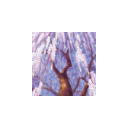
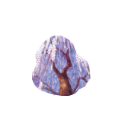
冰柱樱重做并翻新图片

Changed region(s): [[0.25, 0.25, 0.75, 0.75], [0.25, 0.625, 0.4688, 0.75]]

diff --git a/src/main/java/FrierenMod/patches/IcicleCherryBlossomPatch.java b/src/main/java/FrierenMod/patches/IcicleCherryBlossomPatch.java
@@ -1,41 +1,41 @@
-package FrierenMod.patches;
-
-import FrierenMod.cards.tempCards.Mana;
-import FrierenMod.relics.IcicleCherryBlossom;
-import com.evacipated.cardcrawl.modthespire.lib.SpirePatch;
-import com.evacipated.cardcrawl.modthespire.lib.SpirePostfixPatch;
-import com.megacrit.cardcrawl.cards.AbstractCard;
-import com.megacrit.cardcrawl.dungeons.AbstractDungeon;
-
-import java.util.ArrayList;
-
-public class IcicleCherryBlossomPatch {
-    @SpirePatch(clz = AbstractDungeon.class, method = "getColorlessRewardCards")
-    public static class PatchGetColorlessRewardCards {
-        @SpirePostfixPatch
-        public static ArrayList<AbstractCard> ChangeCards(ArrayList<AbstractCard> retVal2) {
-            if (AbstractDungeon.player.hasRelic(IcicleCherryBlossom.ID))
-                for (int i = 0; i < retVal2.size(); i++) {
-                    int rng = AbstractDungeon.cardRng.random(100);
-                    if (rng <= IcicleCherryBlossom.RATE) {
-                        retVal2.set(i, new Mana());
-                    }
-                }
-            return retVal2;
-        }
-    }
-    @SpirePatch(clz = AbstractDungeon.class, method = "getRewardCards")
-    public static class PatchGetRewardCards {
-        @SpirePostfixPatch
-        public static ArrayList<AbstractCard> ChangeCards(ArrayList<AbstractCard> retVal2) {
-            if (AbstractDungeon.player.hasRelic(IcicleCherryBlossom.ID))
-                for (int i = 0; i < retVal2.size(); i++) {
-                    int rng = AbstractDungeon.cardRng.random(100);
-                    if (rng <= IcicleCherryBlossom.RATE) {
-                        retVal2.set(i, new Mana());
-                    }
-                }
-            return retVal2;
-        }
-    }
-}
+//package FrierenMod.patches;
+//
+//import FrierenMod.cards.tempCards.Mana;
+//import FrierenMod.relics.IcicleCherryBlossom;
+//import com.evacipated.cardcrawl.modthespire.lib.SpirePatch;
+//import com.evacipated.cardcrawl.modthespire.lib.SpirePostfixPatch;
+//import com.megacrit.cardcrawl.cards.AbstractCard;
+//import com.megacrit.cardcrawl.dungeons.AbstractDungeon;
+//
+//import java.util.ArrayList;
+//
+//public class IcicleCherryBlossomPatch {
+//    @SpirePatch(clz = AbstractDungeon.class, method = "getColorlessRewardCards")
+//    public static class PatchGetColorlessRewardCards {
+//        @SpirePostfixPatch
+//        public static ArrayList<AbstractCard> ChangeCards(ArrayList<AbstractCard> retVal2) {
+//            if (AbstractDungeon.player.hasRelic(IcicleCherryBlossom.ID))
+//                for (int i = 0; i < retVal2.size(); i++) {
+//                    int rng = AbstractDungeon.cardRng.random(100);
+//                    if (rng <= IcicleCherryBlossom.RATE) {
+//                        retVal2.set(i, new Mana());
+//                    }
+//                }
+//            return retVal2;
+//        }
+//    }
+//    @SpirePatch(clz = AbstractDungeon.class, method = "getRewardCards")
+//    public static class PatchGetRewardCards {
+//        @SpirePostfixPatch
+//        public static ArrayList<AbstractCard> ChangeCards(ArrayList<AbstractCard> retVal2) {
+//            if (AbstractDungeon.player.hasRelic(IcicleCherryBlossom.ID))
+//                for (int i = 0; i < retVal2.size(); i++) {
+//                    int rng = AbstractDungeon.cardRng.random(100);
+//                    if (rng <= IcicleCherryBlossom.RATE) {
+//                        retVal2.set(i, new Mana());
+//                    }
+//                }
+//            return retVal2;
+//        }
+//    }
+//}

diff --git a/src/main/java/FrierenMod/relics/IcicleCherryBlossom.java b/src/main/java/FrierenMod/relics/IcicleCherryBlossom.java
@@ -1,48 +1,40 @@
 package FrierenMod.relics;
 
+import FrierenMod.actions.MakeManaInDrawPileAction;
+import FrierenMod.gameHelpers.CombatHelper;
 import FrierenMod.utils.ModInformation;
-import basemod.AutoAdd;
+import com.evacipated.cardcrawl.mod.stslib.relics.ClickableRelic;
 import com.megacrit.cardcrawl.actions.common.RelicAboveCreatureAction;
 import com.megacrit.cardcrawl.dungeons.AbstractDungeon;
-import com.megacrit.cardcrawl.monsters.AbstractMonster;
-import com.megacrit.cardcrawl.relics.AbstractRelic;
+import com.megacrit.cardcrawl.helpers.PowerTip;
 
-@AutoAdd.Ignore
-public class IcicleCherryBlossom extends AbstractBaseRelic {
+public class IcicleCherryBlossom extends AbstractBaseRelic implements ClickableRelic {
     public static final String ID = ModInformation.makeID(IcicleCherryBlossom.class.getSimpleName());
-    public static final int RATE = 60;
 
     public IcicleCherryBlossom() {
-        super(ID, RelicTier.BOSS);
+        super(ID, RelicTier.UNCOMMON);
+        this.counter = 10;
+        this.description = String.format(DESCRIPTIONS[0], this.counter);
+        this.tips.clear();
+        this.tips.add(new PowerTip(this.name, this.description));
     }
 
     public String getUpdatedDescription() {
-        return this.DESCRIPTIONS[0];
+        return String.format(this.DESCRIPTIONS[0], this.counter);
     }
 
-    public AbstractRelic makeCopy() {
-        return new IcicleCherryBlossom();
-    }
-
-    public boolean isNormal() {
-        for (AbstractMonster m : (AbstractDungeon.getMonsters()).monsters) {
-            if (m.type == AbstractMonster.EnemyType.BOSS)
-                return true;
+    @Override
+    public void onRightClick() {
+        if (!usedUp && CombatHelper.isInCombat()) {
+            --this.counter;
+            this.description = String.format(DESCRIPTIONS[0], this.counter);
+            this.tips.clear();
+            this.tips.add(new PowerTip(this.name, this.description));
+            this.initializeTips();
+            this.addToBot(new RelicAboveCreatureAction(AbstractDungeon.player, this));
+            this.addToBot(new MakeManaInDrawPileAction(1));
+            if (counter <= 0)
+                usedUp();
         }
-        return false;
     }
-
-    public void atBattleStart() {
-        flash();
-        this.addToBot(new RelicAboveCreatureAction(AbstractDungeon.player, this));
-    }
-
-    public void onEquip() {
-        AbstractDungeon.player.energy.energyMaster++;
-    }
-
-    public void onUnequip() {
-        AbstractDungeon.player.energy.energyMaster--;
-    }
-
 }
